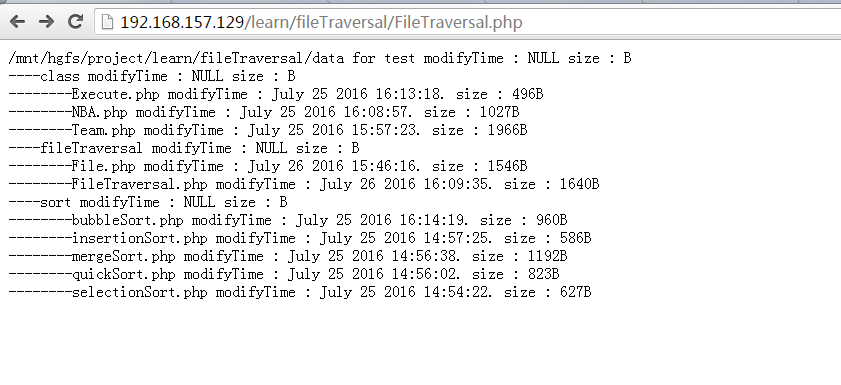
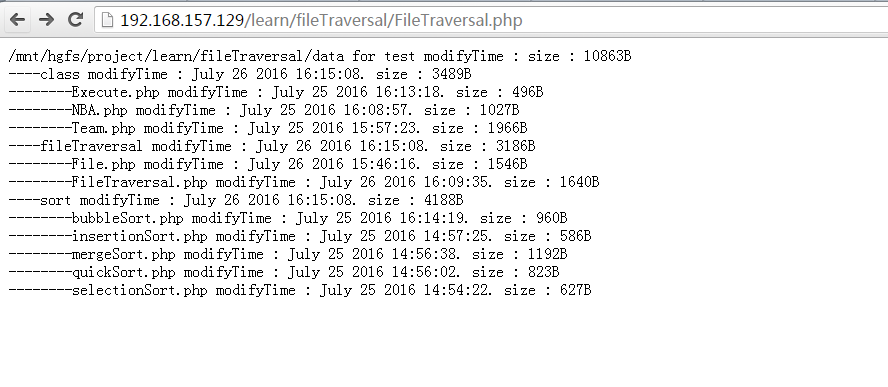
FileTraversal

Changed region(s): [[0.0, 0.0, 1.0, 0.7792]]

diff --git a/fileTraversal/FileTraversal.php b/fileTraversal/FileTraversal.php
@@ -12,8 +12,10 @@ include "File.php";
  * @param $dir 遍历的文件路径
  * @param $number 记录该dir的缩进格式
  * @param $arr 存放各个文件的各个属性的对象
+ * @param $size 存放文件夹的大小
+ * @return mixed 文件夹的大小
  */
-function fileTraversal($dir, $number, &$arr){
+function fileTraversal($dir, $number, &$arr, $size){
     $d = opendir($dir);
 
     while (($content = readdir($d)) != false) {
@@ -23,17 +25,20 @@ function fileTraversal($dir, $number, &$arr){
             $contentExactly = new File();
             $contentExactly->setName($content);
             $contentExactly->setBlankNumber($number+1);
+            $contentExactly->setModifyTime(date("F d Y H:i:s.", filemtime($path)));
 
             if (is_dir($path)) {
-                array_push($arr, $contentExactly);
-                fileTraversal($path, $number + 1, $arr);
+                $arr[$path] = $contentExactly;
+                $size += fileTraversal($path, $number + 1, $arr, 0);
             }else{
-                $contentExactly->setModifyTime(date("F d Y H:i:s.", filemtime($path)));
                 $contentExactly->setSize(filesize($path));
-                array_push($arr, $contentExactly);
+                $arr[$path] = $contentExactly;
+                $size += $contentExactly->getSize(filesize($path));
             }
         }
     }
+    $arr[$dir]->setSize($size);
+    return $size;
 }
 
 /**
@@ -43,19 +48,15 @@ function fileTraversal($dir, $number, &$arr){
  */
 function show($arr){
     $n = count($arr);
-    for ($i = 0; $i < $n; $i++){
+    foreach ($arr as $key => $value){
         $content = '';
-        $number = $arr[$i]->getBlankNumber();
+        $number = $arr[$key]->getBlankNumber();
         for ($j = 0; $j < $number; $j++){
             $content .= '----';
         }
-        $content = $content . $arr[$i]->getName();
-        $size = '';
-        $modifyTime = 'NULL';
-        if ($arr[$i]->getSize() != ""){
-            $size = $arr[$i]->getSize();
-            $modifyTime = $arr[$i]->getModifyTime();
-        }
+        $content = $content . $arr[$key]->getName();
+        $size = $arr[$key]->getSize();
+        $modifyTime = $arr[$key]->getModifyTime();
         echo "$content" ."  modifyTime : $modifyTime" .  "  size : $size" . 'B<br/>';
     }
 }
@@ -67,12 +68,14 @@ function show($arr){
 function main($dir){
     $arr = [];
     $dir = "/mnt/hgfs/project/learn/fileTraversal/data for test";
+    @opendir($dir) or die("该目录不存在");
     $contentExactly = new File();
     $contentExactly->setName($dir);
     $contentExactly->setBlankNumber(0);
 
-    array_push($arr, $contentExactly);
-    fileTraversal($dir, 0, $arr);
+    $arr[$dir] = $contentExactly;
+//    array_push($arr, $contentExactly);
+    fileTraversal($dir, 0, $arr, 0);
 
     show($arr);
 }
